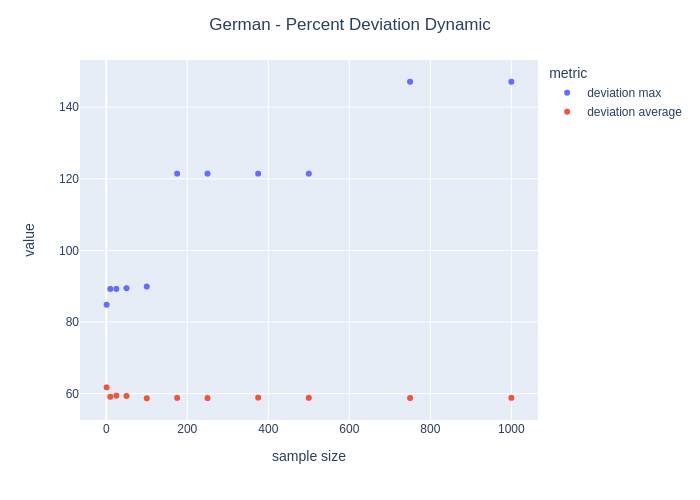
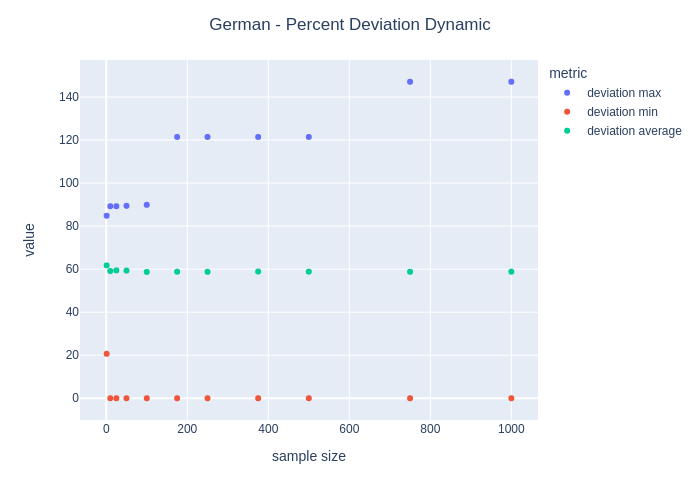
fix bad plot label

diff --git a/assignment2/analysis.py b/assignment2/analysis.py
@@ -109,9 +109,9 @@ def drawLineGraphs(results,interactive):
         df = pd.DataFrame(data)
         lang = lang.removesuffix(".txt").capitalize() #requires python 3.9
         staticAbsDF = df.loc[df["label"]=="static"].loc[df['metric'].isin(["max","min","average"])]
-        staticRelDF = df.loc[df["label"]=="static"].loc[df['metric'].isin(["deviation max","deviaton min","deviation average"])]
+        staticRelDF = df.loc[df["label"]=="static"].loc[df['metric'].isin(["deviation max","deviation min","deviation average"])]
         dynamicAbsDF = df.loc[df["label"]=="dynamic"].loc[df['metric'].isin(["max","min","average"])]
-        dynamicRelDF = df.loc[df["label"]=="dynamic"].loc[df['metric'].isin(["deviation max","deviaton min","deviation average"])]
+        dynamicRelDF = df.loc[df["label"]=="dynamic"].loc[df['metric'].isin(["deviation max","deviation min","deviation average"])]
         
         absSwaps = df.loc[df['metric']=="swaps"]
         relSwaps = df.loc[df['metric']=="relative swaps"]
